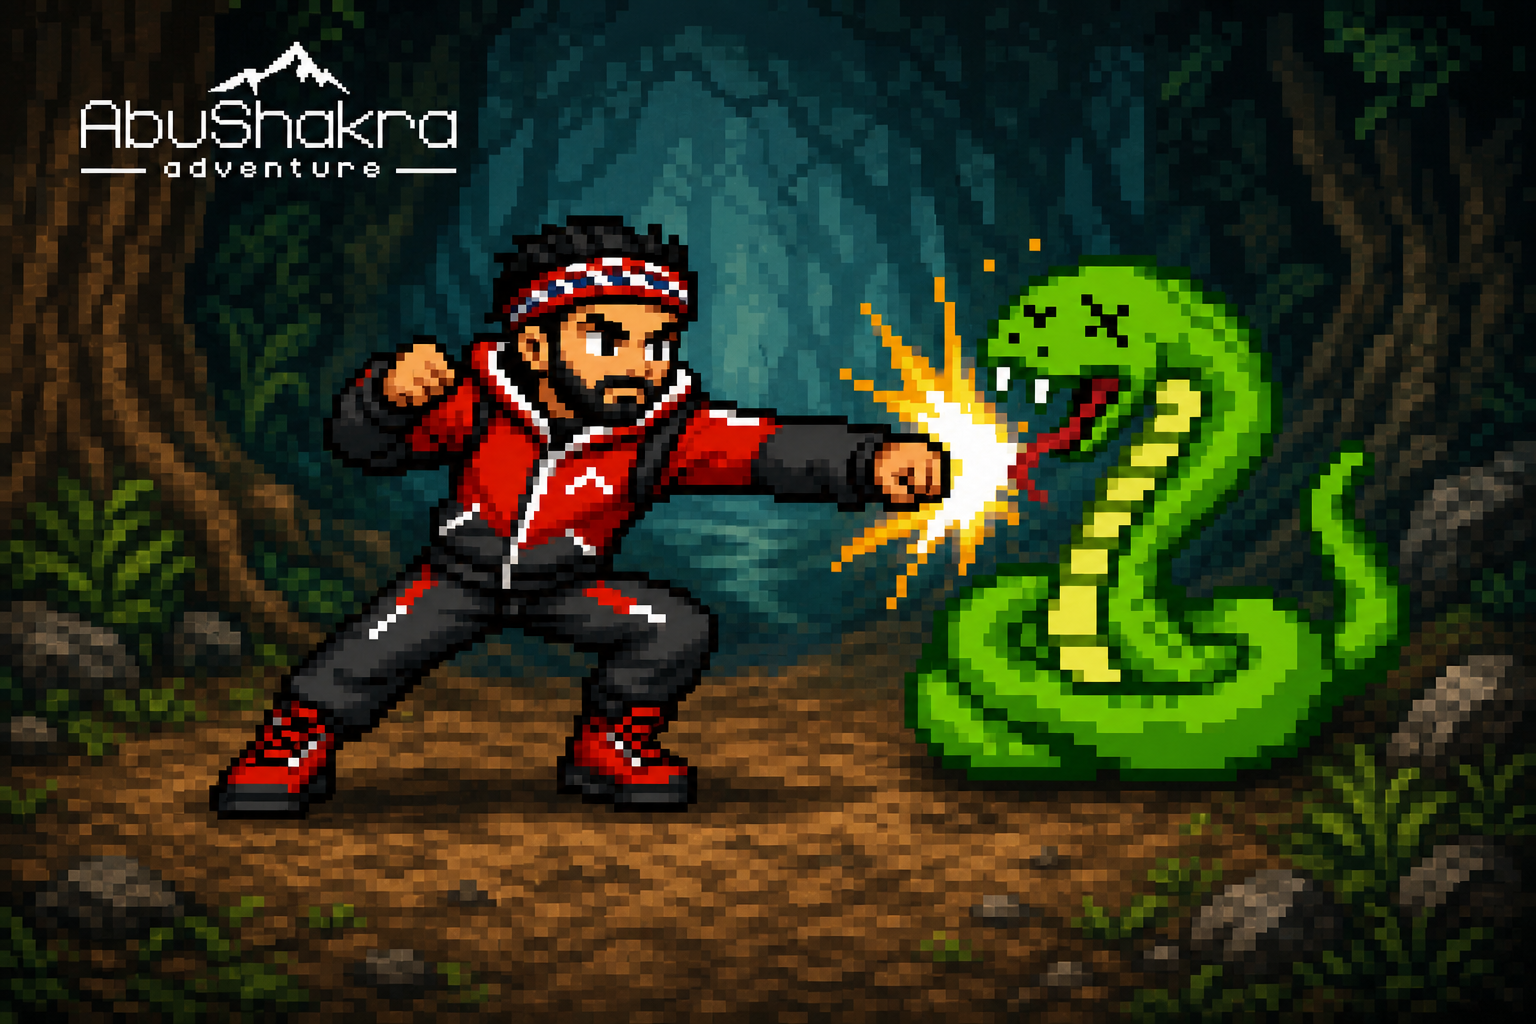
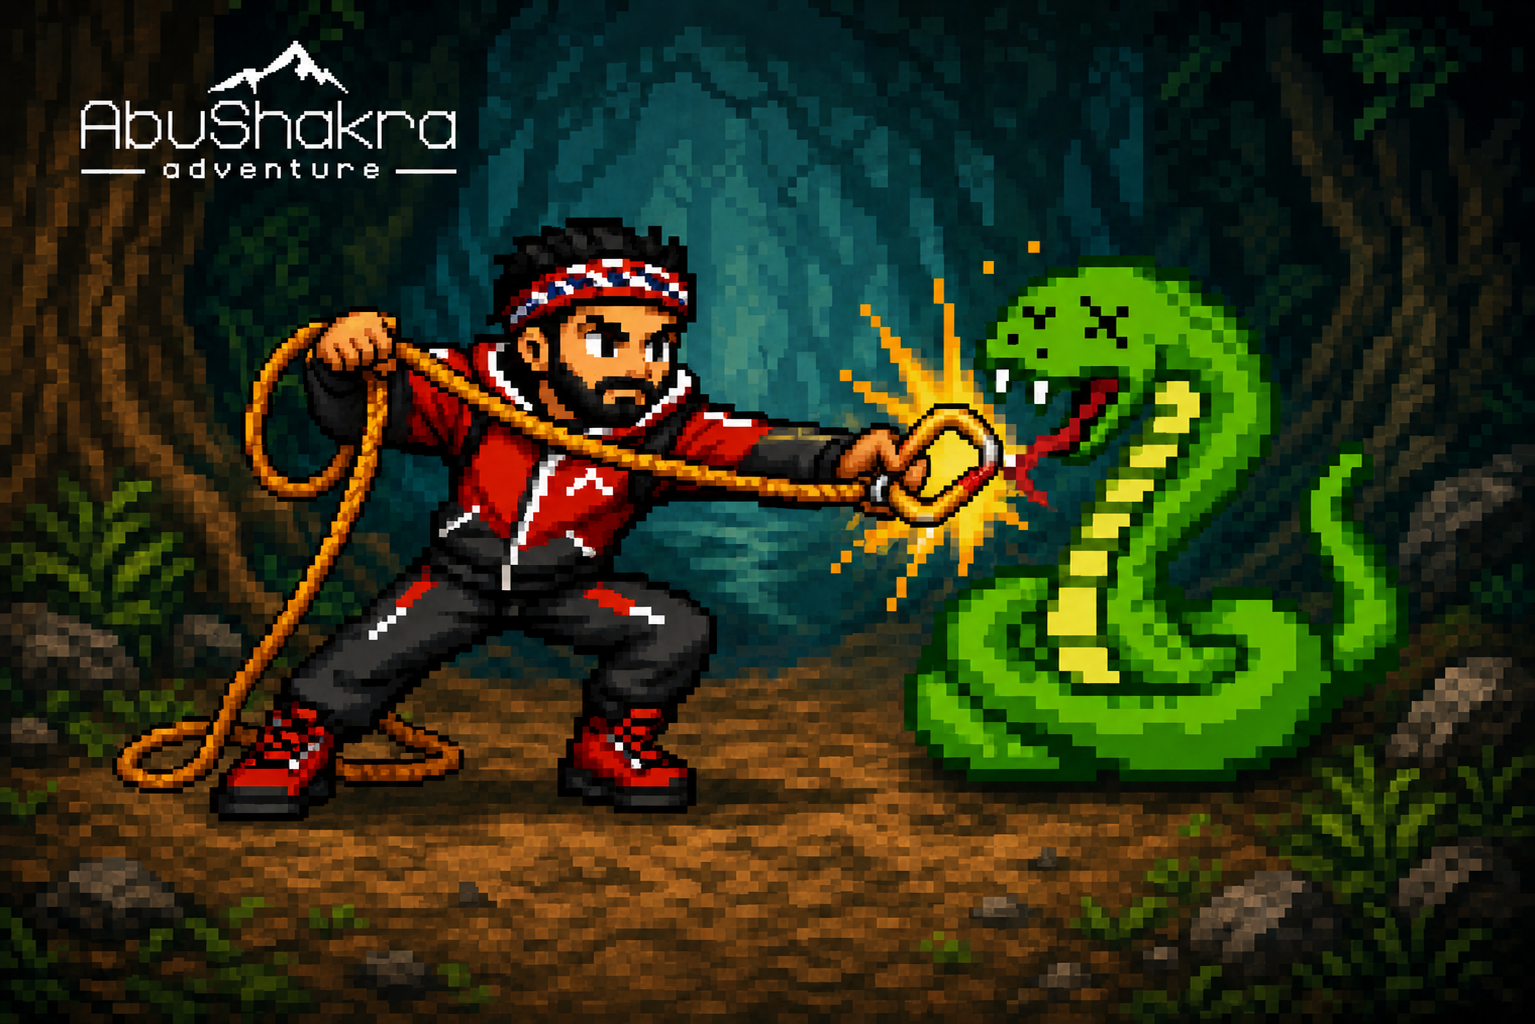
feat: new title cover art (Abu vs the snake)
Replace the start-screen splash with the updated pixel-art cover
(AbuShakra Adventure logo + Abu facing the snake). Same 1.5 aspect,
so the existing cover-fit draw is unchanged.
Bump SW cache to abushakra-v14.

diff --git a/sw.js b/sw.js
@@ -1,5 +1,5 @@
 // Offline app-shell cache. Bump CACHE when files change to refresh clients.
-const CACHE = "abushakra-v13";
+const CACHE = "abushakra-v14";
 const ASSETS = [
   "./",
   "./index.html",
